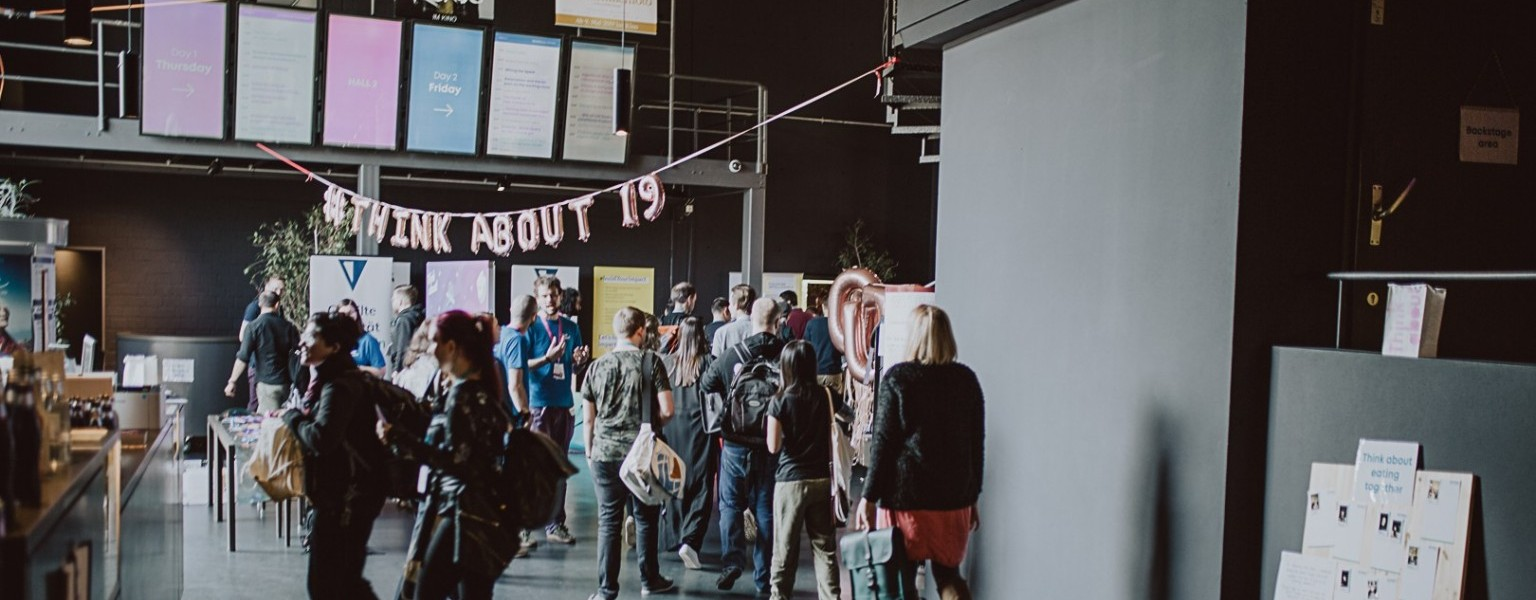
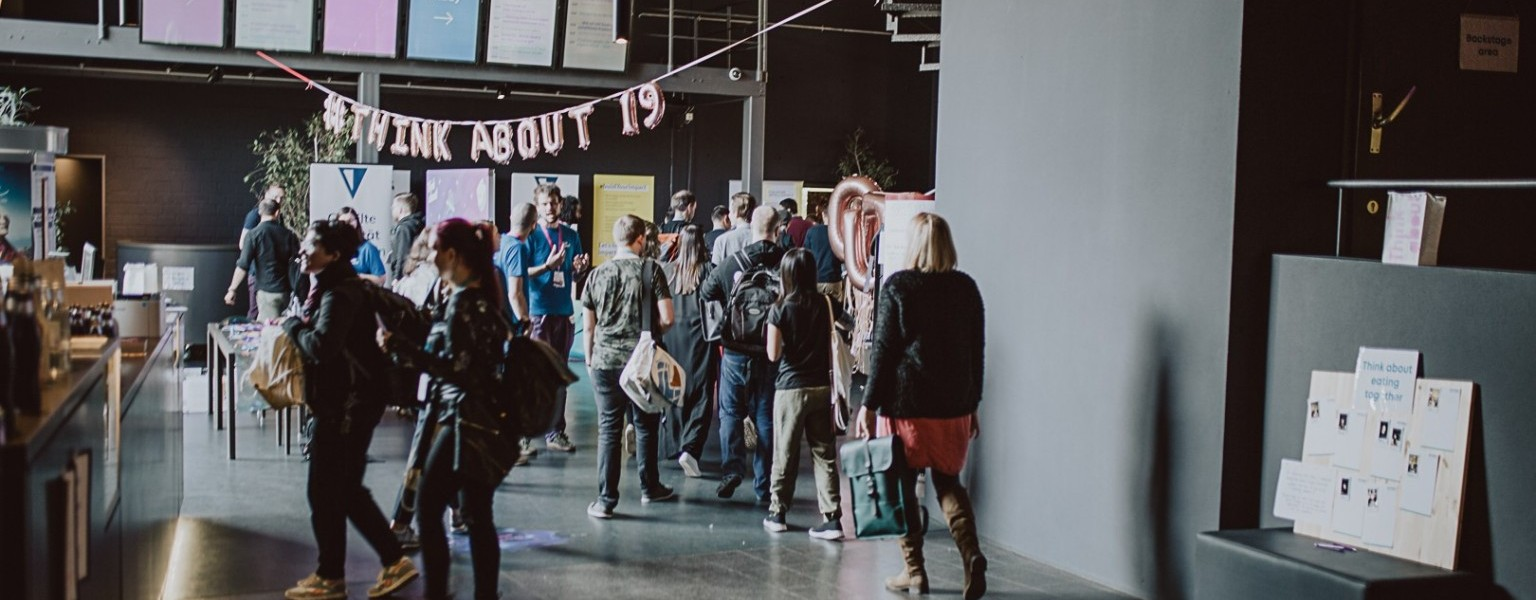
Add scaling hero image for event subpage

diff --git a/assets/css/style.css b/assets/css/style.css
@@ -215,17 +215,26 @@ body > header {
   background-image: url("/assets/images/keyvisual.svg");
   background-repeat: no-repeat;
   background-position: center 0;
-  background-size: auto;
   background-size: 4096px 600px;
   background-color: #470076;
   padding-top: 70px;
 }
 
-body > header.hero-2019 {
-  width: 100%;
+body > header.hero {
+  background-color: white;
+}
+
+body > header.ta2019 {
   background-image: url("/assets/images/events/2019-large.jpg");
   background-size: 1536px 600px;
-  background-color: white;
+}
+
+@media (max-width: 699px) {
+body > header.ta2019 {
+  background-image: url("/assets/images/events/2019-small.jpg");
+  background-position: center;
+  background-size: cover;
+}
 }
 
 body > header[small] {

diff --git a/lib/renderer.rb b/lib/renderer.rb
@@ -257,8 +257,16 @@ class Renderer
       file.start_with?('blog/') && file.end_with?('md')
     end
 
+    def is_event?
+      file.start_with?('/events/')
+    end
+
     def is_talk_details?
       file.match(%r{speakies/[a-zA-Z0-9_]+\.html\.erb$})
+    end
+
+    def is_landing_page?
+      url.empty? || url == '/index.html' || url == '/'
     end
 
     def filename
